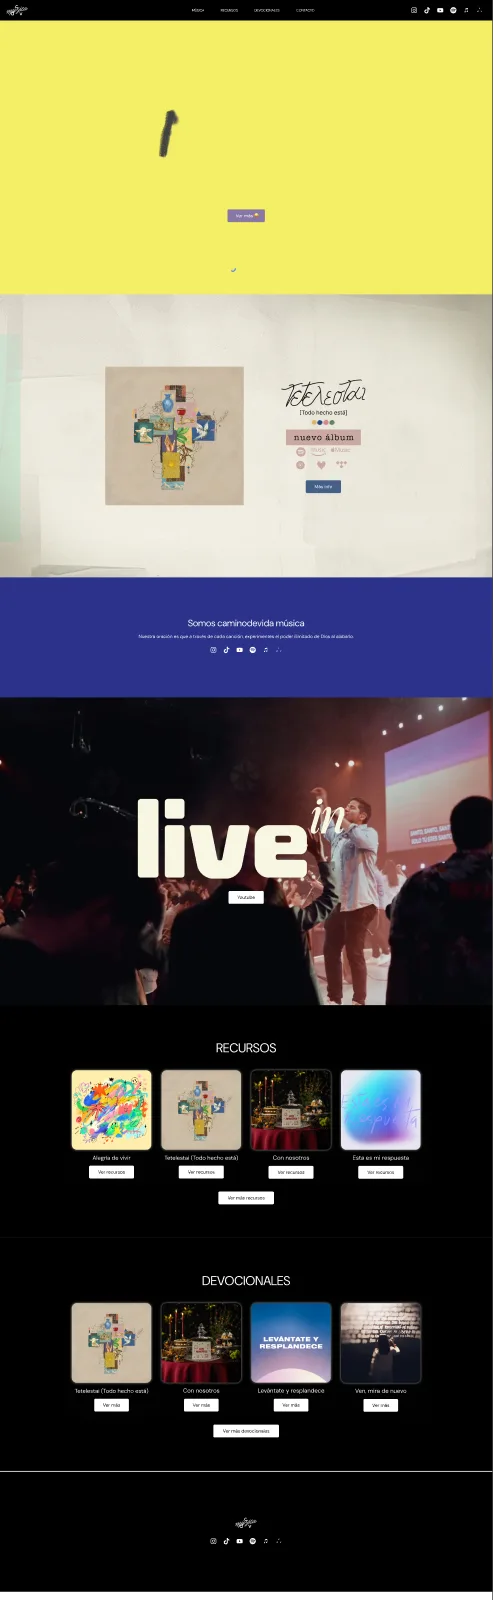
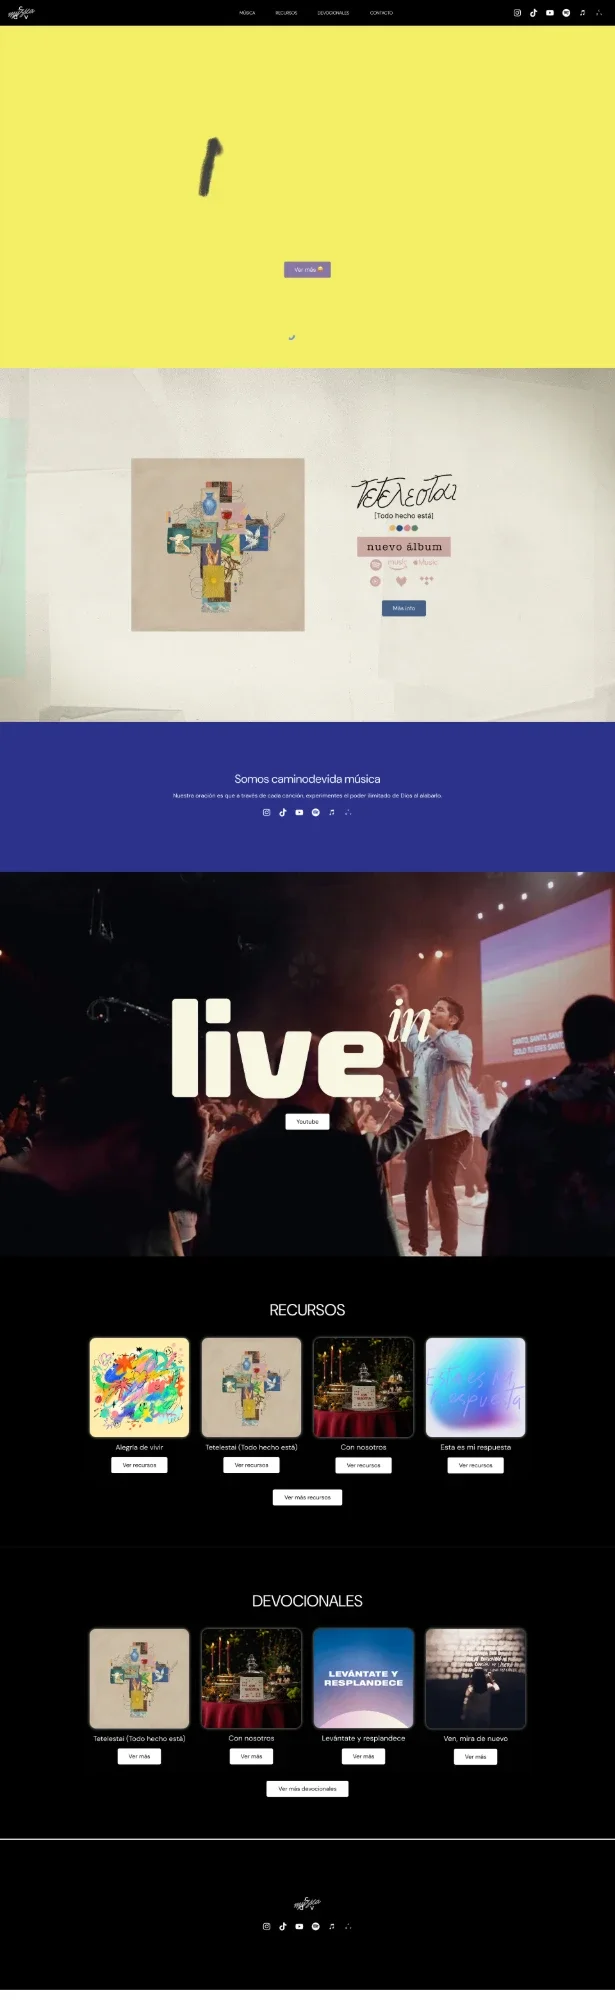
CDV Música: sharper before screenshot; team is the two-person web team in communications

diff --git a/components/CaseCdvMusica.tsx b/components/CaseCdvMusica.tsx
@@ -65,7 +65,7 @@ function content(lang: Lang): CaseContent {
     meta: [
       ["company", "Camino de Vida"],
       ["role", "Designer and builder: layouts, design and the WordPress build"],
-      ["team", "The music ministry, a content editor and me"],
+      ["team", "The web team within communications: two of us; I led cdvmusica.com"],
       ["timeline", "2025–2026"],
       ["scope", "Website: home, catalog, album, song and devotional templates"],
       ["status", "Live at cdvmusica.com"],
@@ -80,9 +80,9 @@ function content(lang: Lang): CaseContent {
       end: "The music needed {{one place where a listener finds the album and a musician finds what to play}}.",
       fig: beforeAfter,
     },
-    role: "{{All the layouts and design are mine, and I built the site}} in WordPress with Elementor. I also managed the plugin that lets another person upload and arrange the content, so releases don't depend on me.",
+    role: "{{All the layouts and design are mine, and I built the site}} in WordPress with Elementor. We are two on the web team inside communications: my teammate handles other parts of caminodevida.com, and cdvmusica.com was mine. I also managed the plugin that lets another person upload and arrange the content, so releases don't depend on me.",
     research: {
-      items: ["The previous site, section by section, to see what changed with each campaign and what stayed.", "caminodevida.com's design system, which I had already designed: the base this site had to share.", "What worship teams ask for before a Sunday: key, BPM, chords, sequences and instrumentals for each song."],
+      items: ["The previous site, section by section, to see what changed with each campaign and what stayed.", "caminodevida.com's design system, which I also designed: the base this site had to share.", "What worship teams ask for before a Sunday: key, BPM, chords, sequences and instrumentals for each song."],
       extraTitle: "the order of the work",
       extra: order,
     },
@@ -94,7 +94,7 @@ function content(lang: Lang): CaseContent {
       { t: "templates fixed, content free", because: "another person uploads every release through a plugin I set up. The layout can't drift, and a new album is content, not a design job.", fig: roles },
     ],
     validation: {
-      items: ["The concept reviewed in Figma before building, screen by screen.", "Every release from 2024 to 2026 uploaded through the same templates, without layout changes.", "The live site checked against the concept: the album panel became a page, the rest kept its structure."],
+      items: ["A full concept in Figma before building: home, catalog, album, song and devotionals.", "Releases from 2024 to 2026 published on the same templates.", "The live site checked against the concept: the album panel became a page, the rest kept its structure."],
     },
     results: [["observed", "{{The site is live and the team publishes on its own.}} Live in Vol. II went up on 27 March 2026 using the same templates as every release before it."], ["measured", "No traffic or download numbers to share yet."]],
     learn: ["{{A system shared with the main site paid off twice}}: the music looks like the church, and I didn't have to design a second visual language.", "Designing the template for the person who uploads matters as much as for the person who visits. If adding an album needs me, the site will fall behind."],
@@ -108,7 +108,7 @@ function content(lang: Lang): CaseContent {
     meta: [
       ["empresa", "Camino de Vida"],
       ["rol", "Diseño y construcción: layouts, diseño y la web en WordPress"],
-      ["equipo", "El ministerio de música, una persona de contenido y yo"],
+      ["equipo", "El equipo web de comunicaciones: somos dos; yo vi cdvmusica.com"],
       ["duración", "2025–2026"],
       ["alcance", "Sitio web: home, catálogo y plantillas de álbum, canción y devocional"],
       ["estado", "En vivo en cdvmusica.com"],
@@ -123,9 +123,9 @@ function content(lang: Lang): CaseContent {
       end: "La música necesitaba {{un lugar donde quien escucha encuentra el álbum y quien toca encuentra qué tocar}}.",
       fig: beforeAfter,
     },
-    role: "{{Todos los layouts y el diseño son míos, y construí la web}} en WordPress con Elementor. También gestioné el plugin con el que otra persona sube y acomoda el contenido, para que los lanzamientos no dependan de mí.",
+    role: "{{Todos los layouts y el diseño son míos, y construí la web}} en WordPress con Elementor. En el equipo web de comunicaciones somos dos: mi compañero ve otros detalles de caminodevida.com, y cdvmusica.com estuvo a mi cargo. También gestioné el plugin con el que otra persona sube y acomoda el contenido, para que los lanzamientos no dependan de mí.",
     research: {
-      items: ["La web anterior, sección por sección, para ver qué cambiaba con cada campaña y qué se mantenía.", "El design system de caminodevida.com, que yo ya había diseñado: la base que esta web tenía que compartir.", "Lo que piden los equipos de alabanza antes de un domingo: tonalidad, BPM, acordes, secuencias e instrumentales de cada canción."],
+      items: ["La web anterior, sección por sección, para ver qué cambiaba con cada campaña y qué se mantenía.", "El design system de caminodevida.com, que también diseñé: la base que esta web tenía que compartir.", "Lo que piden los equipos de alabanza antes de un domingo: tonalidad, BPM, acordes, secuencias e instrumentales de cada canción."],
       extraTitle: "el orden del trabajo",
       extra: order,
     },
@@ -137,7 +137,7 @@ function content(lang: Lang): CaseContent {
       { t: "plantillas fijas, contenido libre", because: "otra persona sube cada lanzamiento con un plugin que dejé configurado. El layout no se desordena, y un álbum nuevo es contenido, no un trabajo de diseño.", fig: roles },
     ],
     validation: {
-      items: ["El concepto revisado en Figma antes de construir, pantalla por pantalla.", "Cada lanzamiento de 2024 a 2026 subido con las mismas plantillas, sin cambios de layout.", "La web en vivo contrastada con el concepto: el panel del álbum pasó a ser una página; lo demás mantuvo su estructura."],
+      items: ["Un concepto completo en Figma antes de construir: home, catálogo, álbum, canción y devocionales.", "Lanzamientos de 2024 a 2026 publicados sobre las mismas plantillas.", "La web en vivo contrastada con el concepto: el panel del álbum pasó a ser una página; lo demás mantuvo su estructura."],
     },
     results: [["observado", "{{La web está en vivo y el equipo publica por su cuenta.}} Live in Vol. II se subió el 27 de marzo de 2026 con las mismas plantillas que todos los lanzamientos anteriores."], ["medido", "Aún no tengo números de visitas o descargas para compartir."]],
     learn: ["{{Un sistema compartido con la web principal rindió dos veces}}: la música se parece a la iglesia, y no tuve que diseñar un segundo lenguaje visual.", "Diseñar la plantilla para quien sube el contenido importa tanto como para quien visita. Si agregar un álbum me necesita, la web se queda atrás."],
